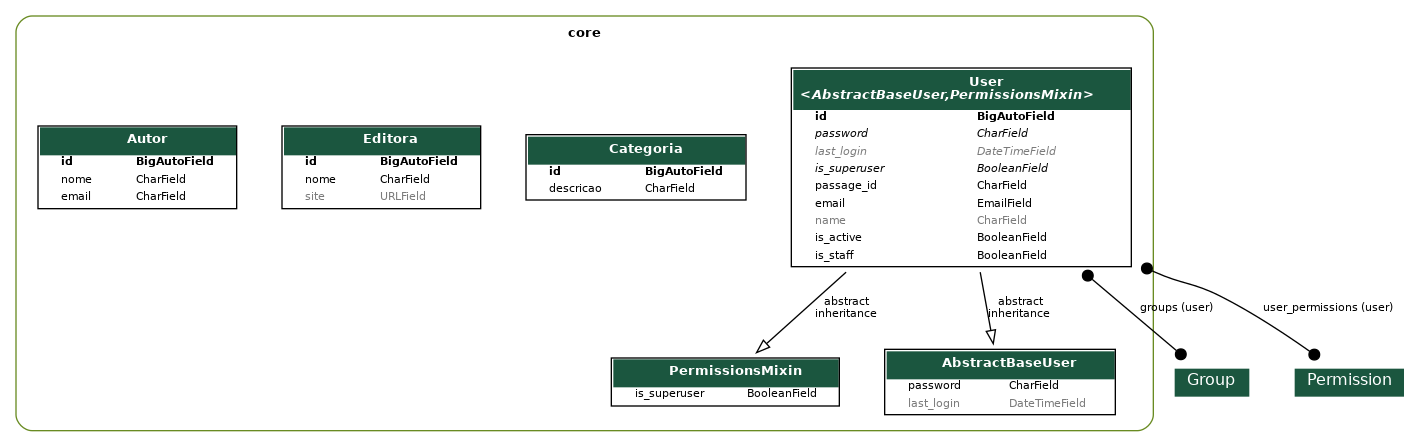
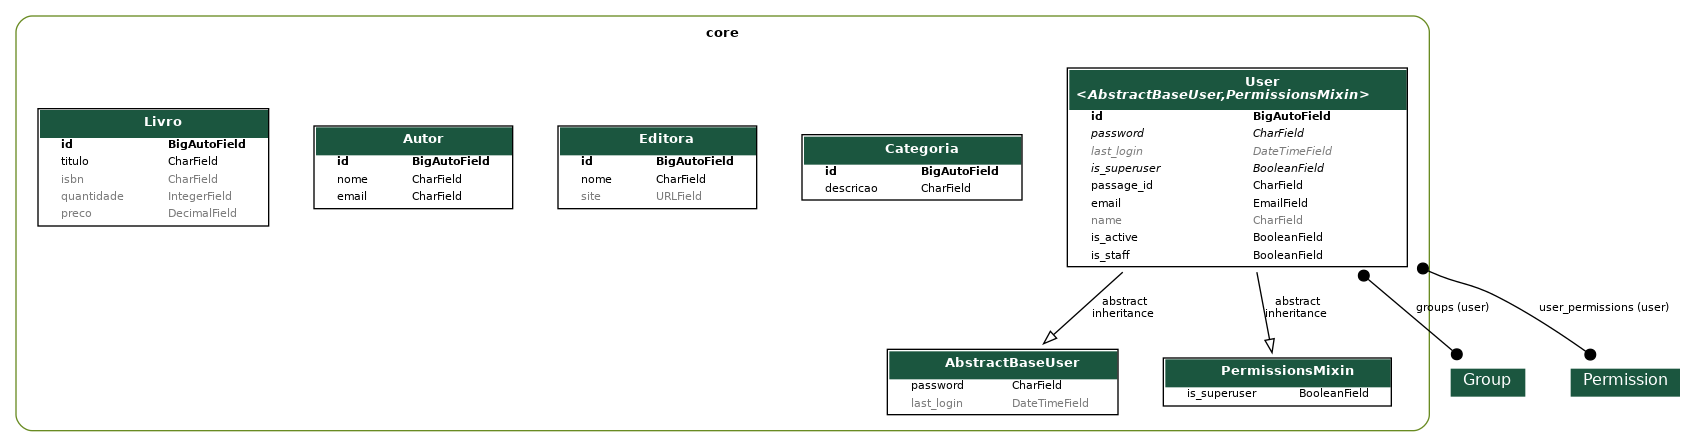
Criação da entidade para Livro

diff --git a/core/migrations/0008_livro.py b/core/migrations/0008_livro.py
@@ -1,0 +1,23 @@
+# Generated by Django 5.1.1 on 2024-10-17 12:59
+
+from django.db import migrations, models
+
+
+class Migration(migrations.Migration):
+
+    dependencies = [
+        ("core", "0007_autor"),
+    ]
+
+    operations = [
+        migrations.CreateModel(
+            name="Livro",
+            fields=[
+                ("id", models.BigAutoField(auto_created=True, primary_key=True, serialize=False, verbose_name="ID")),
+                ("titulo", models.CharField(max_length=255)),
+                ("isbn", models.CharField(blank=True, max_length=32, null=True)),
+                ("quantidade", models.IntegerField(blank=True, default=0, null=True)),
+                ("preco", models.DecimalField(blank=True, decimal_places=2, default=0, max_digits=7, null=True)),
+            ],
+        ),
+    ]

diff --git a/app/urls.py b/app/urls.py
@@ -9,7 +9,7 @@ from drf_spectacular.views import (
 from rest_framework.routers import DefaultRouter
 from rest_framework_simplejwt.views import TokenObtainPairView, TokenRefreshView
 
-from core.views import UserViewSet, CategoriaViewSet, EditoraViewSet, AutorViewSet
+from core.views import UserViewSet, CategoriaViewSet, EditoraViewSet, AutorViewSet, LivroViewSet
 
 router = DefaultRouter()
 
@@ -17,6 +17,7 @@ router.register(r"usuarios", UserViewSet, basename="usuarios")
 router.register(r"categorias", CategoriaViewSet, basename="categorias")
 router.register(r"editoras", EditoraViewSet, basename="editoras")
 router.register(r"autores", AutorViewSet, basename="autores")
+router.register(r"livros", LivroViewSet, basename="livros")
 
 urlpatterns = [
     path("admin/", admin.site.urls),

diff --git a/core/models/livro.py b/core/models/livro.py
@@ -1,0 +1,10 @@
+from django.db import models
+
+class Livro(models.Model):
+    titulo = models.CharField(max_length=255)
+    isbn = models.CharField(max_length=32, null=True, blank=True)
+    quantidade = models.IntegerField(default=0,  null=True, blank=True)
+    preco = models.DecimalField(max_digits=7, decimal_places=2, default=0, null=True, blank=True)
+
+    def __str__(self):
+        return f"({self.id}) {self.titulo} ({self.quantidade})"

diff --git a/core/views/livro.py b/core/views/livro.py
@@ -1,0 +1,8 @@
+from rest_framework.viewsets import ModelViewSet
+
+from core.models import Categoria, Editora, Autor, Livro
+from core.serializers import CategoriaSerializer, EditoraSerializer, AutorSerializer, LivroSerializer
+
+class LivroViewSet(ModelViewSet):
+    queryset = Livro.objects.all()
+    serializer_class = LivroSerializer

diff --git a/core/serializers/livro.py b/core/serializers/livro.py
@@ -1,0 +1,9 @@
+from rest_framework.serializers import ModelSerializer
+
+from core.models import Categoria, Editora, Livro
+
+
+class LivroSerializer(ModelSerializer):
+    class Meta:
+        model = Livro
+        fields = "__all__"

diff --git a/core/serializers/__init__.py b/core/serializers/__init__.py
@@ -2,3 +2,4 @@ from .user import UserSerializer
 from .categoria import CategoriaSerializer
 from .editora import EditoraSerializer
 from .autor import AutorSerializer
+from .livro import LivroSerializer

diff --git a/core/views/__init__.py b/core/views/__init__.py
@@ -2,4 +2,5 @@ from .user import UserViewSet
 from .categoria import CategoriaViewSet
 from .editora import EditoraViewSet
 from .autor import AutorViewSet
+from .livro import LivroViewSet
 

diff --git a/core/admin.py b/core/admin.py
@@ -58,3 +58,5 @@ admin.site.register(models.Categoria)
 admin.site.register(models.Editora)
 
 admin.site.register(models.Autor)
+
+admin.site.register(models.Livro)

diff --git a/core/models/__init__.py b/core/models/__init__.py
@@ -5,3 +5,5 @@ from .categoria import Categoria
 from .editora import Editora
 
 from .autor import Autor
+
+from .livro import Livro
